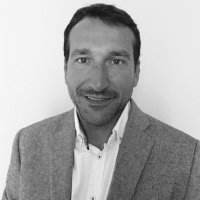
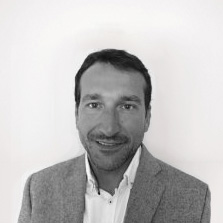
fix some issues (david.jpg, featured background)

diff --git a/src/styles/pages/_index.sass b/src/styles/pages/_index.sass
@@ -104,11 +104,11 @@ $featured-height: 1.5 * $nav-height
     #featured
       position: relative
       z-index: 1
-      background-color: $yellow
       background-image: linear-gradient(to right, $yellow 50%, $white 51%, $white)
       height: $featured-height
       +mobile
         height: $nav-height-mobile * 3
+        background: $white
       .container
         display: flex
         align-items: center
@@ -133,6 +133,7 @@ $featured-height: 1.5 * $nav-height
         .featured
           flex: 1 1 20%
           color: $white
+          @extend %font-size-l
           font-weight: bold
           background-color: $yellow
           line-height: $featured-height
@@ -159,10 +160,10 @@ $featured-height: 1.5 * $nav-height
         &:after
           +triangle(right, $featured-height, $yellow)
     #explanation
-      min-height: 100vh
+      padding: 70px 0 30px
       background-color: $white
       +mobile
-        padding: 0px 0 40px
+        padding: 20px 0 40px
       #issues
         height: 100%
         position: relative
